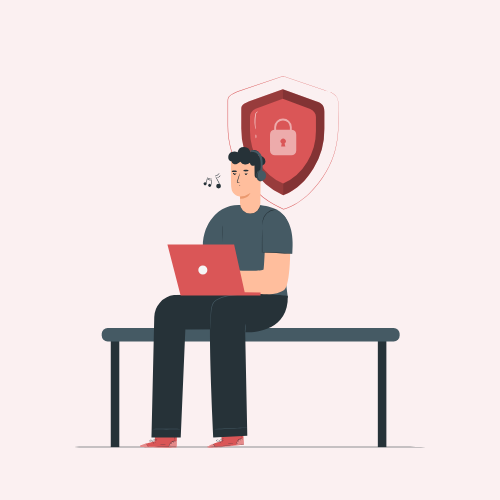
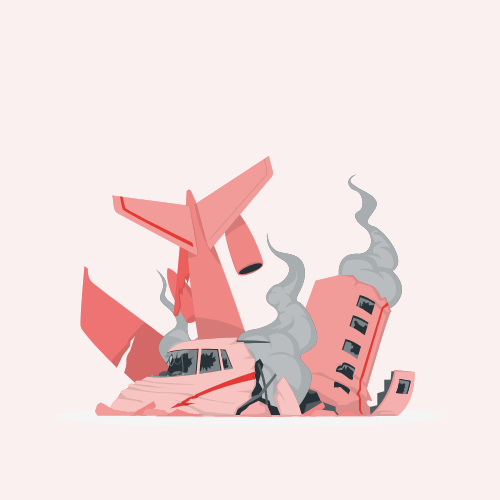
feat: replace critical illustration with plane crash (Storyset)
Sourced from storyset.com/illustration/plane-crash/rafiki with
red (#E53935) color theme. Dark variant uses detailed cityscape
background, light variant uses clean minimal background.
Re-enabled critical illustration mapping in GetDefaultIllustration.

Changed region(s): [[0.15, 0.18, 0.84, 0.9]]

diff --git a/src/LISSTech.Billboard/Controls/NotificationCard.xaml.cs b/src/LISSTech.Billboard/Controls/NotificationCard.xaml.cs
@@ -311,7 +311,7 @@ public partial class NotificationCard : UserControl
             NotificationType.Info     => "info",
             NotificationType.Warn     => "warn",
             NotificationType.Alert    => "alert",
-            NotificationType.Critical => null,
+            NotificationType.Critical => "critical",
             NotificationType.Question => "question",
             _                         => null
         };
